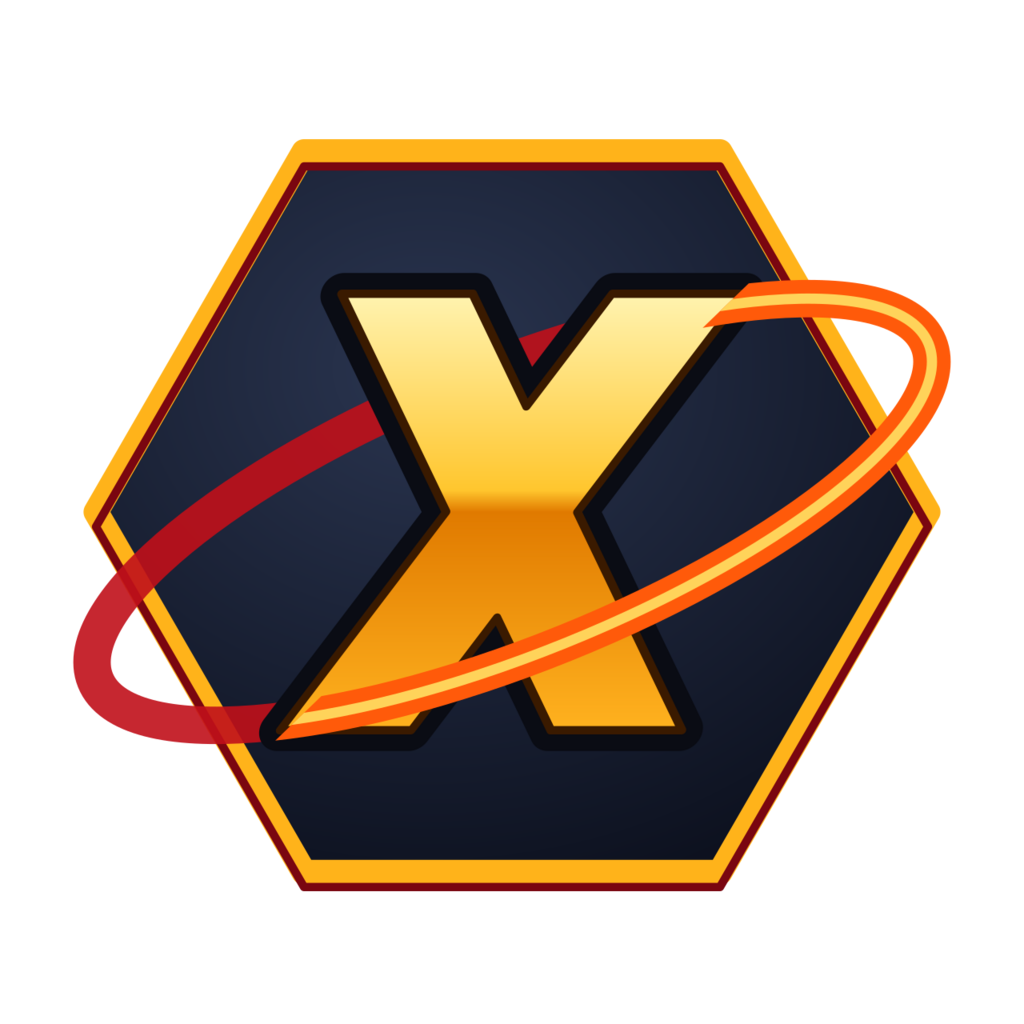
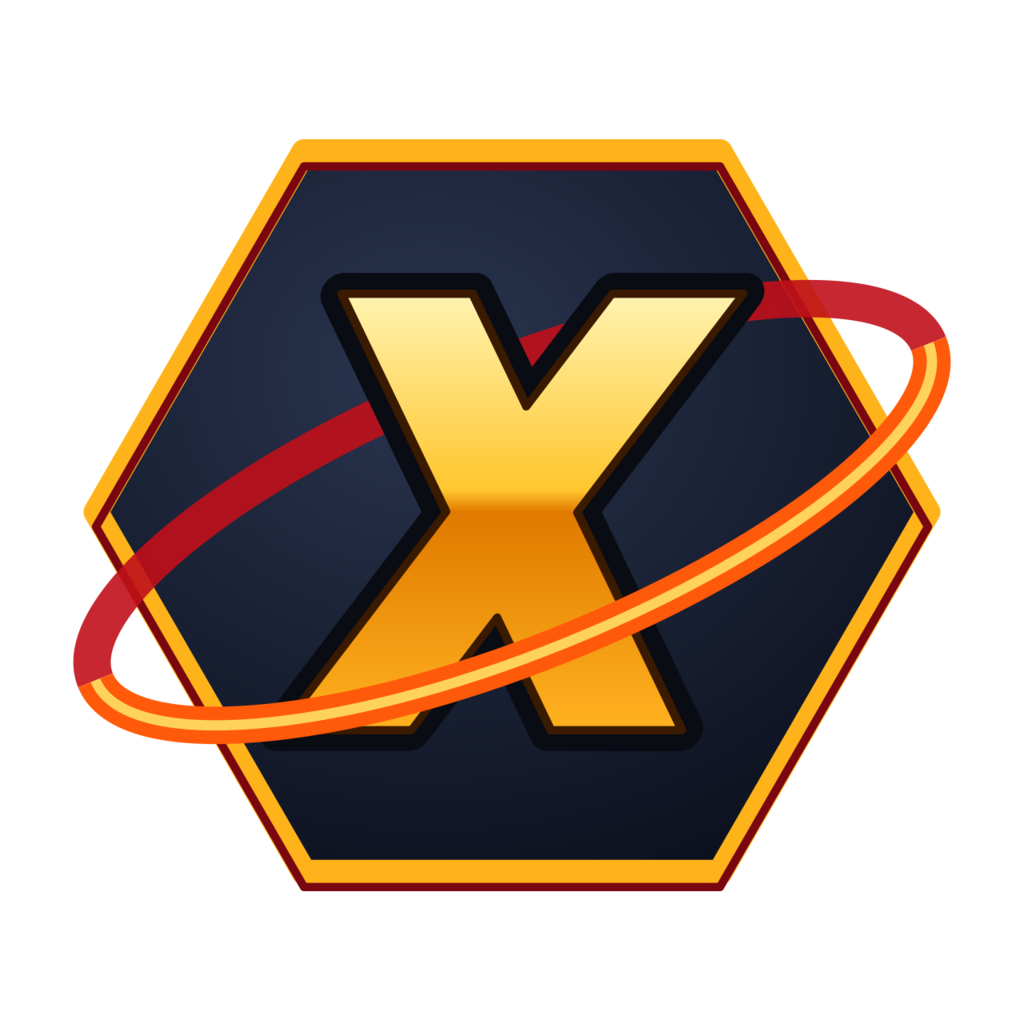
Branding: the badge's ring passes behind the X along its whole upper arc
The front/back clip rects carried their own rotate() on top of the
clipped ellipse's, so the split sat at -44 degrees instead of along the
ring: its top-right came out over the X, and the front arc started right
at the X's outline at the bottom-left, which cut the ring in two. Split
along the ring's own axis: upper arc behind, lower arc wholly in front.

Changed region(s): [[0.6875, 0.25, 0.9375, 0.3438], [0.0625, 0.6562, 0.3125, 0.75]]

diff --git a/branding/gen_logo.py b/branding/gen_logo.py
@@ -141,9 +141,13 @@ def badge_group(cx, cy, r):
     rot = f'rotate(-22 {cx} {cy})'
     g = [f'<path d="{path(hexp)}" fill="url(#disc)" stroke="#ffb31a" stroke-width="{r * 0.06:.1f}" stroke-linejoin="round"/>',
          f'<path d="{path(hexp)}" fill="none" stroke="#7a0610" stroke-width="{r * 0.02:.1f}" stroke-linejoin="round" transform="translate(0,{r * 0.035:.1f})"/>',
-         # back half of the ring
-         f'<clipPath id="back{int(cx)}"><rect x="{cx - 2 * r}" y="{cy - 2 * r}" width="{4 * r}" height="{2 * r}" transform="{rot}"/></clipPath>',
-         f'<clipPath id="front{int(cx)}"><rect x="{cx - 2 * r}" y="{cy}" width="{4 * r}" height="{2 * r}" transform="{rot}"/></clipPath>',
+         # The ring splits along its own long axis: the upper arc behind the
+         # X, the lower one in front. No rotate on the rects: a clip path is in
+         # the clipped ellipse's user space, which already carries `rot`, and
+         # rotating the rects too tilted the split 44 degrees, so the top-right
+         # of the swoop came out in front of the X.
+         f'<clipPath id="back{int(cx)}"><rect x="{cx - 2 * r}" y="{cy - 2 * r}" width="{4 * r}" height="{2 * r}"/></clipPath>',
+         f'<clipPath id="front{int(cx)}"><rect x="{cx - 2 * r}" y="{cy}" width="{4 * r}" height="{2 * r}"/></clipPath>',
          f'<ellipse {ring} transform="{rot}" fill="none" stroke="#c0101a" stroke-width="{r * 0.09:.1f}" clip-path="url(#back{int(cx)})" opacity="0.9"/>',
          f'<g transform="skewX(-8) translate({cy * 0.14:.1f},0)">',
          f'<path d="{xpath}" fill="#0a0c14" stroke="#0a0c14" stroke-width="{r * 0.1:.1f}" stroke-linejoin="round"/>',
